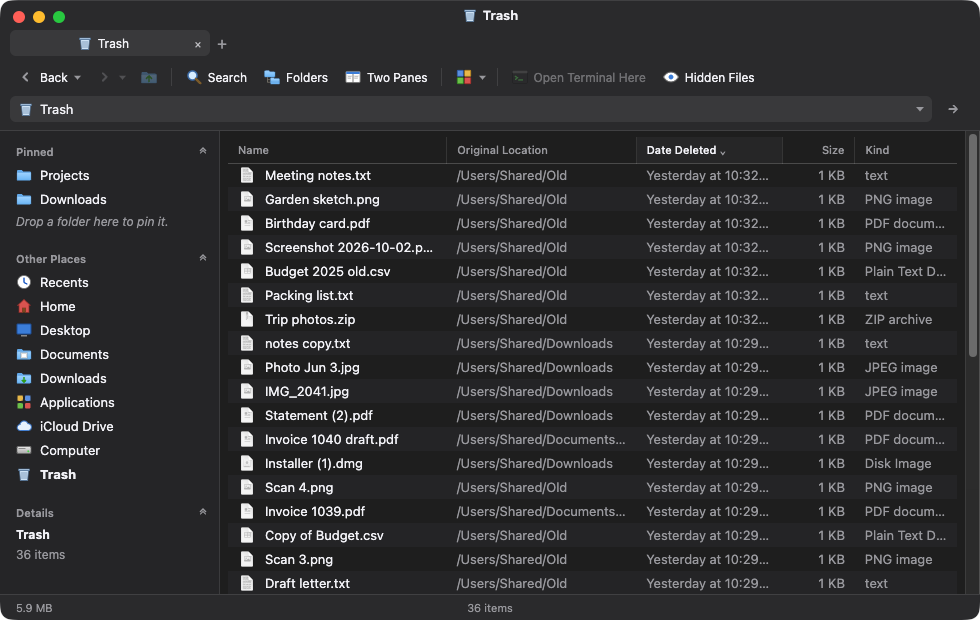
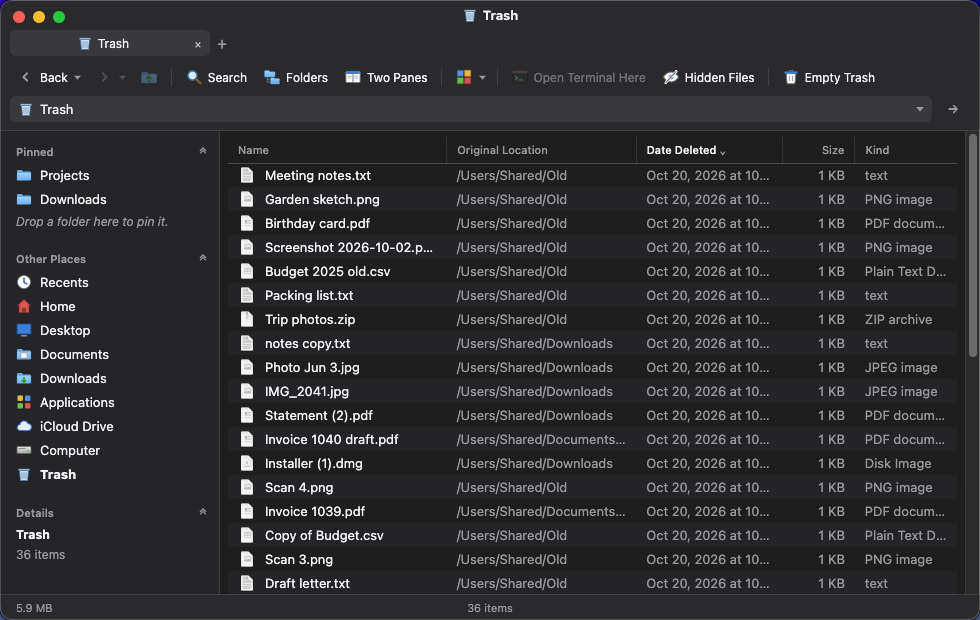
Empty Trash on the toolbar in the Trash

diff --git a/src/renderer/window/window.js b/src/renderer/window/window.js
@@ -429,6 +429,9 @@ function render() {
     f.innerHTML = RENDER[view]();
     fitList();
   }
+  // Greyed while the Trash is empty. Without Full Disk Access Filedrawer
+  // can't see inside, and Finder can still empty it.
+  $('b-empty').classList.toggle('off', cwd === TRASH && !listError && !items.length);
   renderStatus();
   renderPane();
   loadIcons();
@@ -509,6 +512,7 @@ function updateChrome() {
   $('b-forward').classList.toggle('off', hIndex >= history.length - 1);
   $('b-up').classList.toggle('off', !parentOf(cwd));
   $('b-term').classList.toggle('off', !targetFolder());
+  if ($('b-empty').hidden !== !buttonWanted('b-empty')) fitToolbar();
   const icon = `<use href="#${specialIcon(cwd) || 'i-folder'}"/>`;
   $('addr-icon').innerHTML = icon;
   $('title-icon').innerHTML = icon;
@@ -1216,12 +1220,14 @@ function applyChrome() {
 // ---------- a toolbar that fits the window ----------
 
 // Buttons that don't fit move into the More button's menu, right most first.
-const OVERFLOW = ['b-hidden', 'b-term', 'b-split', 'b-folders', 'b-search'];
-const OVERFLOW_ICONS = { 'b-hidden': 'p-hidden', 'b-term': 'p-term', 'b-split': 't-split', 'b-folders': 't-folders', 'b-search': 't-search' };
+const OVERFLOW = ['b-empty', 'b-hidden', 'b-term', 'b-split', 'b-folders', 'b-search'];
+const OVERFLOW_ICONS = { 'b-empty': 'p-trash', 'b-hidden': 'p-hidden', 'b-term': 'p-term', 'b-split': 't-split', 'b-folders': 't-folders', 'b-search': 't-search' };
 const overflowed = new Set();
 const toolbar = document.querySelector('.toolbar');
 
-const buttonWanted = (id) => (id !== 'b-term' || app.settings.terminalButton) && (id !== 'b-hidden' || app.settings.hiddenButton);
+// Empty Trash is only on the toolbar in the Trash.
+const buttonWanted = (id) => (id !== 'b-term' || app.settings.terminalButton) && (id !== 'b-hidden' || app.settings.hiddenButton) &&
+  (id !== 'b-empty' || cwd === TRASH);
 
 // A separator shows only between two visible buttons.
 function syncSeps() {
@@ -1267,7 +1273,7 @@ $('b-more').addEventListener('mousedown', (e) => {
     return { label: b.title, icon: OVERFLOW_ICONS[id], checked: b.classList.contains('on') || b.classList.contains('down'), click: () => b.click() };
   };
   const views = ['b-search', 'b-folders', 'b-split'].filter((id) => overflowed.has(id)).map(entry);
-  const tools = ['b-term', 'b-hidden'].filter((id) => overflowed.has(id)).map(entry);
+  const tools = ['b-term', 'b-hidden', 'b-empty'].filter((id) => overflowed.has(id)).map(entry);
   const r = $('b-more').getBoundingClientRect();
   openMenu([...views, ...(views.length && tools.length ? ['sep'] : []), ...tools], r.left, r.bottom + 2);
   $('b-more').classList.add('down');
@@ -1392,6 +1398,9 @@ function openTerminal(p = targetFolder()) {
 // The selected folder, when one is, or the open one.
 $('b-term').addEventListener('click', () => openTerminal());
 $('b-hidden').addEventListener('click', () => api.updateSettings({ showHidden: !app.settings.showHidden }));
+$('b-empty').addEventListener('click', () => {
+  if (!$('b-empty').classList.contains('off')) api.emptyTrash();
+});
 
 // ---------- the left pane: Pinned, Other Places and Details ----------
 

diff --git a/src/renderer/window/index.html b/src/renderer/window/index.html
@@ -56,6 +56,12 @@
       <path d="M5 19.5L19 4.5" stroke="var(--eye-halo, transparent)" stroke-width="3.6" stroke-linecap="round"/>
       <path d="M5 19.5L19 4.5" stroke="var(--eye-slash, transparent)" stroke-width="1.4" stroke-linecap="round"/>
     </symbol>
+    <symbol id="t-empty" viewBox="0 0 24 24">
+      <path d="M5.5 7.5h13l-1.1 12.2a1.5 1.5 0 0 1-1.5 1.3H8.1a1.5 1.5 0 0 1-1.5-1.3z" fill="#fff" stroke="#6b6b6b" stroke-width="1.2"/>
+      <rect x="3.5" y="4.6" width="17" height="2.9" rx="1" fill="#3b7dd8"/>
+      <path d="M9.5 4.6V3.4h5v1.2" fill="none" stroke="#6b6b6b" stroke-width="1.2"/>
+      <path d="M10 10.5v7M14 10.5v7" stroke="#9a9a9a" stroke-width="1.2" stroke-linecap="round"/>
+    </symbol>
     <symbol id="t-more" viewBox="0 0 24 24"><path d="M6.5 7l5 5-5 5M12.5 7l5 5-5 5" stroke="currentColor" stroke-width="2" fill="none" stroke-linecap="round" stroke-linejoin="round"/></symbol>
     <symbol id="t-term" viewBox="0 0 24 24">
       <rect x="2" y="3.5" width="20" height="17" rx="2" fill="#2b2b2b" stroke="#111"/>
@@ -117,6 +123,8 @@
   <div class="tbsep"></div>
   <div class="tb" id="b-term" title="Open Terminal Here"><svg class="ic"><use href="#t-term"/></svg><span class="lb">Open Terminal Here</span></div>
   <div class="tb" id="b-hidden" title="Hidden Files"><svg class="ic"><use href="#t-hidden"/></svg><span class="lb">Hidden Files</span></div>
+  <div class="tbsep"></div>
+  <div class="tb" id="b-empty" title="Empty Trash" hidden><svg class="ic"><use href="#t-empty"/></svg><span class="lb">Empty Trash</span></div>
   <div class="tb" id="b-more" title="More" hidden><svg class="ic"><use href="#t-more"/></svg></div>
 </div>
 

diff --git a/test/cypress/e2e/window.cy.js b/test/cypress/e2e/window.cy.js
@@ -170,6 +170,24 @@ describe('file window', () => {
     });
   });
 
+  it('the Trash has an Empty Trash button that other folders leave out', () => {
+    cy.page('window/index.html?path=::trash', (state, extra) => {
+      extra.tree = { '/Users/test': ['Documents/'], '/Users/test/Documents': [], '::trash': ['old.txt'] };
+    });
+    cy.get('#b-empty').should('be.visible').and('not.have.class', 'off').click();
+    cy.calls('emptyTrash').should('have.length', 1);
+    cy.get('#path').type('/Users/test/Documents{enter}');
+    cy.get('#title').should('have.text', 'Documents');
+    cy.get('#b-empty').should('not.be.visible');
+  });
+
+  it('Empty Trash is greyed out while the Trash is empty', () => {
+    cy.page('window/index.html?path=::trash', (state, extra) => {
+      extra.tree = { '/Users/test': [], '::trash': [] };
+    });
+    cy.get('#b-empty').should('be.visible').and('have.class', 'off');
+  });
+
   it('a new tab opens on the start folder and tabs switch', () => {
     cy.page(HOME);
     item('Documents').dblclick();

diff --git a/README.md b/README.md
@@ -58,7 +58,7 @@ The Search button finds files by name, by a word inside them, by date or by size
 
 Computer lists your disks with their size and free space, and ejects them.
 
-The Trash shows where each item came from and when it was deleted. Put Back moves items to where they were, and Delete Immediately removes them for good. Recents lists the files you opened in the last 30 days, newest first, and iCloud Drive opens here too.
+The Trash shows where each item came from and when it was deleted. Empty Trash is on the toolbar while the Trash is open. Put Back moves items to where they were, and Delete Immediately removes them for good. Recents lists the files you opened in the last 30 days, newest first, and iCloud Drive opens here too.
 
 ![The Trash with Original Location and Date Deleted](https://raw.githubusercontent.com/pratherbytecraft/filedrawer/main/docs/screenshots/trash.png)
 
